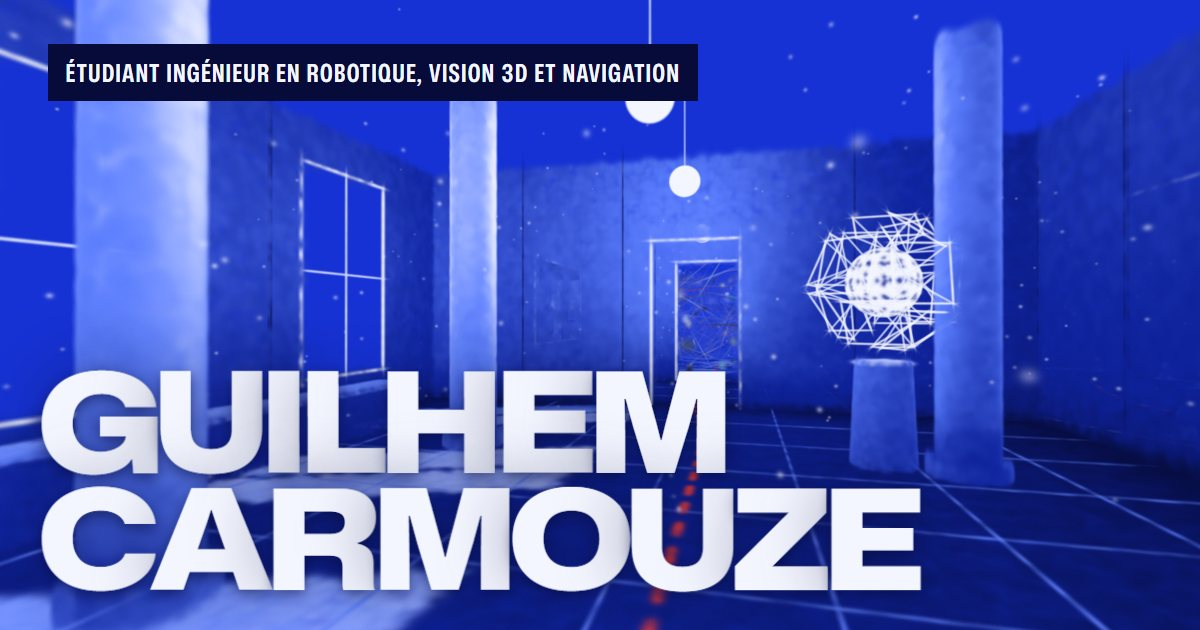
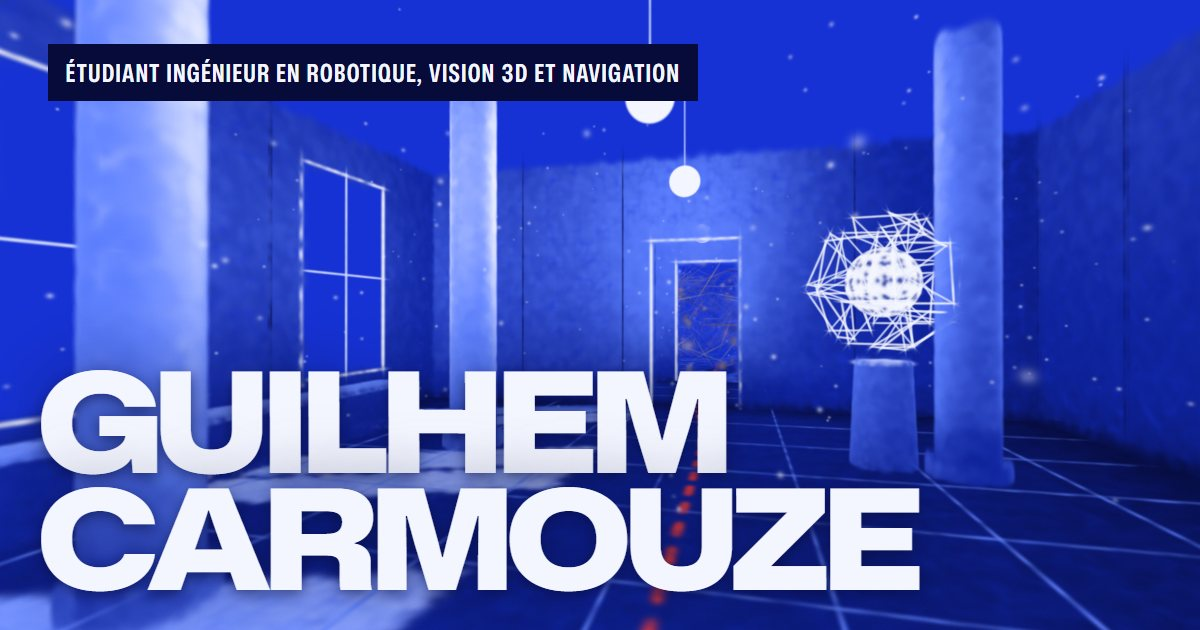
Document the performance work and the invitation to scroll; regenerate the poster and share images
DESIGN.md: a Performance section (how it is measured, the rules that came out of it,
the quality governor), 'The invitation to scroll', the AIST room as one stage, the
before/after stills at a size where they are sharp, the decisions taken after the
owner's first review, and three additions to 'Do not use'. README: the three new
tools and how to read ?perf=1.

The poster and the two share images are captured again from the built hero (without
the lights of the invitation, which are motion). The AIST copy tightens on very
short laptop windows so that it stays under the header. The world is drawn on every
refresh again: the half-rate drawing for 240 Hz screens could not be tested here.

diff --git a/src/scripts/main.ts b/src/scripts/main.ts
@@ -442,7 +442,7 @@ async function run() {
   let lastY = -1;
   let lastHere = '?';
   let rafStart = 0;
-  let lastTick = 0, lastRender = 0;
+  let lastRender = 0;
   let giantCss = '';
   const hud = $('.hud');
   // on phones the instruments sit at the bottom of the screen, where the lab enters: they step aside just before it does
@@ -451,25 +451,11 @@ async function run() {
   const measureHud = () => {
     hudAwayY = labHead.getBoundingClientRect().top + window.scrollY - window.innerHeight - 40;
   };
-  // On a 240 Hz screen the world is drawn every second refresh: 120 pictures a second look the same
-  // and the GPU does half the work. `every` is set once the refresh rate has been measured.
-  let every = 1, tickNo = 0;
-  const hz: number[] = [];
   // runs before GSAP renders its animations: the time between this and the frame callback is theirs
   gsap.ticker.add(() => { rafStart = performance.now(); }, false, true);
 
   const frame = (time: number) => {
     const now = performance.now();
-    if (hz.length < 50 && lastTick) {
-      hz.push(now - lastTick);
-      if (hz.length === 50) {
-        const med = hz.slice().sort((a, b) => a - b)[25];
-        every = med < 5.2 ? Math.max(1, Math.round(1000 / med / 110)) : 1;
-        perf.event('refresh', `${(1000 / med).toFixed(0)} Hz, world every ${every}`);
-      }
-    }
-    lastTick = now;
-    if (every > 1 && ++tickNo % every) { lenis.raf(time * 1000); return; }
     const deltaMs = lastRender ? now - lastRender : 16.7;
     lastRender = now;
 

diff --git a/src/styles/home.css b/src/styles/home.css
@@ -419,6 +419,18 @@ html.gl.intro-done .intro { opacity: 0; }
   html.gl .aist__still figcaption .gl-only { display: none; }
 }
 
+/* a very short laptop window: the copy of the AIST stage tightens so that it stays under the header */
+@media (min-width: 761px) and (max-height: 640px) {
+  html.gl .aist__copy { padding: 0.8rem 1rem 0.85rem; max-width: min(36rem, 39vw); }
+  html.gl .aist__copy > .t { font-size: clamp(1.15rem, 1.7vw, 1.5rem); max-width: none; margin-bottom: 0.5rem; }
+  html.gl .aist__copy .body { font-size: 0.85rem; line-height: 1.42; }
+  html.gl .aist__copy .body + .body { margin-top: 0.4rem; }
+  html.gl .aist__copy .beat__cta { margin-top: 0.7rem; }
+  html.gl .aist__copy .beat__cta .btn { min-height: 38px; }
+  html.gl .aist__copy .links--inline { margin-top: 0.5rem; }
+  html.gl .aist__proof { width: min(26rem, 30vw); }
+}
+
 @media (prefers-reduced-motion: reduce) {
   html:not(.gl) * { transition: none !important; animation: none !important; scroll-behavior: auto !important; }
 }

diff --git a/tools/og.py b/tools/og.py
@@ -51,13 +51,15 @@ with sync_playwright() as pw:
     for lang in wanted:
         home, name, line = LANGS[lang]
         out = MEDIA / name
-        page = b.new_context(viewport={'width': 1200, 'height': 630}, device_scale_factor=1).new_page()
-        page.goto(f'http://127.0.0.1:{PORT}{home}?nointro', wait_until='domcontentloaded')
+        # reduced motion with the 3D run opted in (?motion): no lights running on the path, no peek of the camera
+        page = b.new_context(viewport={'width': 1200, 'height': 630}, device_scale_factor=1, reduced_motion='reduce').new_page()
+        page.goto(f'http://127.0.0.1:{PORT}{home}?nointro&motion', wait_until='domcontentloaded')
         page.wait_for_function('() => window.__navrun && window.__world && window.__world.info', timeout=60000)
-        page.add_style_tag(content='.hero__side, .top, .hud, .lens, .intro { visibility: hidden !important; }')
+        page.add_style_tag(content='.hero__side, .top, .hud, .lens, .intro, .cue { visibility: hidden !important; }')
         page.evaluate(
             """(line) => {
               window.__world.pointerActive = false;
+              window.__world.setLevel(0);
               const p = document.createElement('p');
               p.className = 'read';
               p.textContent = line;

diff --git a/tools/poster.py b/tools/poster.py
@@ -36,11 +36,12 @@ with sync_playwright() as pw:
         # main * as well: the run sets visibility on the hero inline, which a hidden parent does not override
         ('poster', (1440, 900), 'main, main *, .top, .hud, .lens, .intro'),
     ):
-        page = b.new_context(viewport={'width': w, 'height': h}, device_scale_factor=1).new_page()
-        page.goto(f'http://127.0.0.1:{PORT}/?nointro', wait_until='domcontentloaded')
+        # reduced motion with the 3D run opted in (?motion): no lights running on the path, no peek of the camera
+        page = b.new_context(viewport={'width': w, 'height': h}, device_scale_factor=1, reduced_motion='reduce').new_page()
+        page.goto(f'http://127.0.0.1:{PORT}/?nointro&motion', wait_until='domcontentloaded')
         page.wait_for_function('() => window.__navrun && window.__world && window.__world.info', timeout=60000)
         page.add_style_tag(content=f'{hide} {{ visibility: hidden !important; }}')
-        page.evaluate('() => { window.__world.pointerActive = false; }')
+        page.evaluate('() => { window.__world.pointerActive = false; window.__world.setLevel(0); }')
         time.sleep(3.0)
         png = TMP / f'{name}.png'
         page.screenshot(path=str(png))

diff --git a/DESIGN.md b/DESIGN.md
@@ -11,7 +11,7 @@ real 3D Gaussians is trained in front of the visitor (noise condenses into rooms
 scroll bar becomes the trajectory: an A* path planned on an occupancy grid sliced from those
 same Gaussians carries a robot's-eye camera from room to room, one project per room.
 The world is printed as a blueprint (blue ground, white light, one red thread), so the only
-true-colour moment on the page is Guilhem's real 360-degree panorama.
+true-colour moment on the page is the room built from Guilhem's real 360-degree panorama.
 
 What the visitor must believe at the end: this person understands radiance fields,
 panoramic geometry and robot navigation well enough to make them move.
@@ -70,14 +70,12 @@ Width is the system: expanded and heavy for names, normal for reading, condensed
 | readout     | `0.72rem`                              | 78   | 640  | 1.2  | 0.07em   | upper, tabular |
 
 Giant figures (grafted from direction B): a measured number set in `figure`, up to
-`clamp(3.6rem, 12.5vw, 12.5rem)`, with its exact meaning beside it in small type. Under the
-unwrapped panorama of the run the number is sized from the band it sits under (16 % of its width,
-at most 18 % of the window height), so it is as large as the room allows and its meaning keeps a
-readable column. Used where a
-number carries the argument and nowhere else: four in the AIST room (14 views, 0.037 to 0.020,
--27 % before distillation, 154 frames that failed the gate), the same on the case study, one per
-side project. A "from" value is struck through in red and set at 56 %. A figure that reports a
-failure is printed in `--fil`.
+`clamp(3.6rem, 12.5vw, 12.5rem)`, with its exact meaning beside it in small type. Used where a
+number carries the argument and nowhere else: two in the AIST room of the run (14 views, -27 %
+before distillation; up to 6.2 rem there, they share a block with the still), four on the case
+study (those two, 0.037 to 0.020, and the 154 frames that failed the gate), one per side project.
+A "from" value is struck through in red and set at 56 %. A figure that reports a failure is
+printed in `--fil`.
 
 Readouts are instruments, not decoration: every number in the HUD is computed live
 (Gaussian count, residual, pose, metres travelled). No invented metrics.
@@ -91,8 +89,12 @@ Readouts are instruments, not decoration: every number in the HUD is computed li
 | `snap`     | `cubic-bezier(0.23, 1, 0.32, 1)`          | 140-220 ms | Hover, press, focus. |
 | `track`    | linear scrub + exponential damping 6 s^-1 | continuous | Everything tied to scroll: camera, unwrap, wipe. |
 
-Stagger: 18-28 ms per letter, random order (convergence is not left-to-right).
+Stagger: 14-28 ms per letter, random order (convergence is not left-to-right).
 Press scale 0.97. Nothing bounces. Under reduced motion nothing above runs.
+
+Only `transform` and `opacity` are animated on type. No `filter: blur()` on letters, no animated
+`font-stretch`, no `will-change` left on an element at rest: each of the three cost frames (see
+Performance).
 
 ## Page grammar: continuous world
 
@@ -110,6 +112,9 @@ Press scale 0.97. Nothing bounces. Under reduced motion nothing above runs.
   Headlines sit directly on the world with a soft `--deep` ground (text-shadow, no offset look);
   where the world behind is busy (the cone track) the whole beat takes a plate.
 - Each project room carries a solid "Read the case study" button as soon as that page exists.
+- Every project room has the same weight: about 400 to 450 vh of scroll, a title beat on the way in and
+  one stage of content. The detail lives on the case-study page. The AIST room follows that rule too:
+  three sentences, two figures, a small before/after still, the repositories, the button.
 - The run ends in two flow sections over the rising plan view: the lab cards, then the project
   index ("the run, without the run"), which the hero's skip link and the header's Work link reach.
 - The minimap is the navigation. Waypoints are real buttons.
@@ -133,8 +138,10 @@ Static documents: no WebGL, no animation library, about 2 KB of script.
 - The one light moment: the **window word** (`360°`), display-xl letters cut out of the real
   repaired panorama, which pans once every 90 s (it wraps, it is equirectangular). Blocks arrive
   once with `converge` when they enter the viewport. Nothing else moves.
-- Before/after: one frame, a draggable divider with a red handle, a range input for the
-  keyboard, and a button that swaps the stills for the real video in the same frame.
+- Before/after: one frame, a draggable divider with a red handle and a range input for the
+  keyboard. The two stills are 1024 px wide, so the frame is never laid out wider than 768 px
+  (512 px in the run): at that size they are sharp. There is no video player on the site for the
+  panorama; the comparison video is one text link to the repository, among the links of the case study.
 - Lab: one section per project: darkroom with its hero clip, then name, what it is, repository,
   and one result as a giant figure, what the clip shows, where it comes from, stack.
 - Page to page: cross-document view transitions where supported. The title the visitor clicked
@@ -158,16 +165,17 @@ carries no phone number and no street address.
 1. **Convergence.** Training is the entrance animation for everything. Splats: a random
    cloud of large isotropic Gaussians moves to coarse cell centres, then densifies
    (children split off their parent cell and shrink to their final anisotropic shape).
-   Letters do the same: scattered, blurred, wide, then they land.
+   Letters do the same: scattered, enlarged, turned, transparent, then they land. The name opens
+   from condensed to wide as it arrives (a horizontal scale, not the width axis of the font).
 2. **The red thread.** The A* path is the scroll bar. It is made of splats, so walls occlude it;
    the travelled part is solid, the planned part dashed. "Fil rouge" is also the name of his
    first robot project, where the thread ends.
-3. **Unwrap and repair.** In the AIST room the perspective view opens into the full
-   equirectangular panorama (direction-space morph in GLSL), then a diffusion front wipes
-   the raw 3DGS render into the repaired one. Real video, his data. The panorama is 1024 texels
-   for 360 degrees, so from inside it is magnified several times: it is sampled with a cubic
-   B-spline and given a little grain, and on a phone the camera pulls back to 98 degrees while it
-   is on screen. Once unwrapped, the band stops where the label bar of the video starts.
+3. **Repair.** The AIST room is built from his panorama, one Gaussian per direction, and it is
+   first shown as the raw 3DGS render: wrong colours, floaters and needles. While its one stage is
+   read the needles leave and every Gaussian takes the colour of the repaired output; the small
+   still on the stage shows the same two pictures, and its divider follows the room until the
+   visitor takes it in hand. No full-screen panorama and no video: at 1024 px for 360 degrees the
+   picture cannot be magnified, so it is only ever shown small, or as Gaussians.
 4. **Lens.** The cursor carries a 150 px lens that switches the render mode locally:
    depth ramp or raw ellipsoids. Click or press L to change mode. A HUD button applies it to the whole view.
 
@@ -175,9 +183,9 @@ carries no phone number and no street address.
 
 | Section | World | Type |
 |---------|-------|------|
-| Intro (4.6 s, skippable) | Top-down noise cloud condenses into the floor plan, camera dives into the lobby. | Readout runs (iteration, residual, live Gaussian count). The header (name, Work, Lab, CV, language, GitHub) is there from the first paint, with a paper tag that says how to skip. |
-| Hero / lobby | Camera settles at robot height; 14-view rig sculpture idles; pointer parallax. | Name converges; width axis 75 -> 125; links slide in. |
-| AIST | Vestibule with a pinhole view of the raw render as a splat billboard (the source footage is never shown), then the room built from the panorama develops from duotone into true colour, artefact needles spin; iris to the real panorama; unwrap; repair wipe; re-wrap. | Title lines converge; five phases step with the scrub; three figures count nothing up, they are set. |
+| Intro (2.5 s to the hero, 3.2 s in all; never blocking) | Top-down noise cloud condenses into the floor plan, camera dives into the lobby. | Readout runs (iteration, residual, live Gaussian count). The header is there from the first paint, with a paper tag that says how to skip. A scroll, a key, a click or a touch opens the page at once, and that gesture already scrolls it; the scene finishes converging behind the hero. |
+| Hero / lobby | Camera settles at robot height; 14-view rig sculpture idles; pointer parallax. Lights run forward along the planned path; after 3.4 idle seconds the camera eases 1.7 m down the path and back, then again every few seconds. | Name converges and opens from condensed to wide; links and instruments slide in; the cue arrives within a second. All of the invitation ends at the first scroll. |
+| AIST (450 vh) | Through the vestibule (a pinhole view of the raw render hangs there as a splat billboard), the room built from the panorama develops from the blueprint print into true colour; inside, a slow look around while the needles leave and the raw colours become the repaired ones. | Title converges on the way in. Then one stage: three sentences, two figures, the before/after still whose divider follows the repair, repositories, the case-study button. On a phone the copy and the proof follow each other and the instruments step aside. |
 | SVLR | Camera turns through the south door. | One short plate. |
 | TLSe Racing | Cone chicane; sensor field-of-view fan sweeps the floor and lights the cones it selects. | One marquee tied to scroll velocity. |
 | Usine 4.0 | The camera leaves the lane on a boom and cranes to 5.3 m, looking down on the floor while it travels: ten mobile robots on one-way lanes queue, stop at docks and yield at the merge; six workstation arms swing. | Huge title scales with the crane. |
@@ -186,23 +194,50 @@ carries no phone number and no street address.
 | Index | Plan view holds. | Rows rise in. |
 | Contact | Top-down: the world becomes the map, whole path drawn. | Email at display size. |
 
+## The invitation to scroll
+
+The owner's rule: on arrival it must be obvious, without reading instructions, that scrolling moves
+forward. Four signals, all gone after the first real scroll (`html.cue-on` then `html.has-scrolled`):
+
+- **The cue.** A plate in readout type with a short piece of the red thread and a waypoint square
+  travelling down it, and the words: "Scroll to move forward", "Swipe up to move forward" on a touch
+  device (the square travels up). It sits on the floor beside the path, in the gap the first line of
+  the name leaves (from 1280 px wide); under the header on narrower desktop windows; under the name,
+  left of the map, on a phone.
+- **The button.** "Start the run", solid paper, right under the cue: it scrolls smoothly to the first
+  room for people who do not scroll. It is a shortcut, not a gate: nothing is hidden behind it.
+- **The path.** A light leaves the camera every 2.4 m and runs down the planned path towards the
+  door, its tail towards the visitor (`uInvite` in the splat shader).
+- **The peek.** After 3.4 idle seconds the camera eases 1.7 m down the path and comes back, and again
+  every few seconds. The page does not scroll; the first scroll cancels it.
+
+Arrow keys, space and page down scroll the page natively, so they advance the run. Under reduced
+motion with the 3D run opted in: the cue is shown static, no lights, no peek. On the static page
+(reduced motion, no WebGL opt-in) the cue is one static line and the button is absent.
+`tools/arrival.py` checks all of this on the built site.
+
 ## Do not use
 
 Manrope, Inter, any serif, any monospace. Peach or orange accent. Teal-black. Diorama or
-"lab bench" framing, numbered stations 01-06, "ENTER"/"RUN" buttons. Cream or off-white page.
+"lab bench" framing, numbered stations 01-06, an "ENTER" gate in front of the content (the
+"Start the run" button of the hero is a shortcut beside a page that already scrolls). Cream or off-white page.
 Italic accent word. Acid green terminal, typewriter text. Glass bento, identical rounded cards.
 Purple or any gradient wash. Pills everywhere. Count-up vanity stats, skill bars.
 Custom cursor replacing the pointer (the lens rides with it, the pointer stays). Em-dashes.
-Stock or generated imagery. Any number not in FACTS.md.
+Stock or generated imagery. Any number not in FACTS.md. A full-screen or autoplaying view of the
+panorama, or any video player for it (1024 px of picture: the owner found it ugly, and he is right).
+Two videos playing at once on the home page. Blur filters on animated type.
 
 ## Mobile plan (390 px)
 
-- Splat density 0.5 (about 155k), device pixel ratio capped at 1.25, fog pulled in, no lens.
+- Splat density 0.5 (about 155k), device pixel ratio capped at 1.25 (then the quality governor), fog pulled in, no lens.
 - Minimap shrinks to a 104 px tile; readouts reduce to metres travelled. It steps aside just before
   the lab enters the screen, and comes back for the last section.
 - Stages stack: headline on the world at top, copy on a solid `--deep` plate at the bottom.
-- The panorama unwraps to a band across the width; the giant figures sit right under its caption,
-  which keeps its first sentence only (which run the picture comes from).
+- The AIST stage is two screens on a phone: the copy on a plate at the bottom, then the proof (still and
+  two figures) at the top. The instruments step aside for both. On a short phone the copy keeps its
+  title, two sentences and the button.
+- The cue and the Start button sit under the name, left of the map.
 - In the flow sections (lab, index) the minimap steps aside and the header takes a ground.
 - Case study: the results table becomes a list of cards; wide lab clips scroll sideways in their frame.
 - No horizontal scroll: display type is sized in vw and clipped by the stage, marquee is `overflow: clip`.
@@ -212,20 +247,55 @@ Stock or generated imagery. Any number not in FACTS.md.
 Default CSS is a complete static page (works without JavaScript): blueprint ground,
 a pre-rendered poster of the lobby as hero (`tools/poster.py`: the world only, no interface and no
 text, so it serves every language), the before/after frame with its
-divider, both robot clips with controls, the lab cards, the project index, plain document flow.
+divider, the two figures, both robot clips with controls, the lab cards, the project index, plain document flow.
 Sentences that only make sense inside the 3D rooms are marked `gl-only` and stay out of it. An inline head script adds `html.gl` only
 when WebGL2 exists and reduced motion is not requested; everything animated hangs off that class.
-Reduced-motion visitors get a "Start the 3D run" button to opt in.
+Reduced-motion visitors get a "Start the 3D run" button to opt in, and a static line that says to scroll.
 
-## Performance budget
+## Performance
+
+The owner's report after the first release: "sometimes it drops". Measured, not guessed:
+`src/world/perf.ts` records every frame (interval, scroll position, time in the scroll step, the
+world, the DOM updates, the browser's own rendering, the depth sort and its hand-over, GPU time
+through `EXT_disjoint_timer_query_webgl2`), `tools/perf.py` scrolls the whole page at three speeds
+on two window sizes with a fresh page for every run and prints the long frames with their place,
+and a Chrome trace says which thread was late. `?perf=1` shows the same instruments live, with
+buttons to pin the quality level.
+
+Budget and rules that came out of it:
 
 - First paint needs CSS + one font file + about 45 KB of JS. three.js, the scene worker and
   shaders load after first paint through dynamic import.
 - Own splat rasteriser (instanced quads, EWA covariance projection in GLSL, counting sort in
-  a worker, culling behind the camera and beyond fog). Chosen over Spark: about 6 KB instead of
-  about 900 KB gzipped, and fragment-level control for the lens and convergence.
-- DPR capped at 1.5 (1.25 on phones). Canvas pauses when the tab is hidden.
-  The panorama video loads only when the AIST room is close.
+  a worker). Chosen over Spark: about 6 KB instead of about 900 KB gzipped, and fragment-level
+  control for the lens and convergence.
+- **Draw only what can be seen.** The depth sort also culls: behind the camera, beyond the fog,
+  outside the view, and by room. The building is a chain of rooms joined by doors
+  (`ROOMS`, `DOORS`, `sightFrom` in `src/world/layout.ts`): the room the camera stands in is drawn
+  whole, the next one only inside the wedge seen through its door, the one after only where both
+  wedges overlap, the rest not at all. What stands higher than the walls around it is never hidden.
+  `tools/sight.py` draws 90 frozen positions with and without this culling: no visible difference,
+  42 % fewer Gaussians (46,750 instead of 80,250 on average).
+- **The sort never stalls a frame.** One request in flight; the sorted array becomes the attribute
+  array without a copy and the previous one goes back to the worker; only the visible range is
+  uploaded; a new sort is asked for when the view moved, 20 times a second at rest.
+- **Quality governor** (`src/world/quality.ts`). The cost of a frame is fill, so the lever is the
+  render scale: seven levels from 1 to 0.44 of the device pixel ratio (capped at 1.5, 1.25 on
+  phones), then two levels that thin the Gaussians tiling surfaces. It starts from a pixel budget
+  for the kind of GPU (4.2 MP discrete, 1.7 integrated, 1.25 weak integrated, 2.4 unknown) and a
+  smaller one for the intro, which costs twice a frame of the run. It steps down when the GPU time
+  stays over 12.5 ms (or, without a timer, when 30 % of the frames are slow; a step that does not
+  help is taken back), and climbs only when there is room, the camera is moving and a wait has
+  passed that grows each time a climb did not hold. Steps are 13 %: soft Gaussians hide them.
+- **Text effects are compositor-only.** Blurring letters one by one made the browser compile a
+  shader per blur radius in the GPU process (10 to 60 ms each): every title dropped frames while
+  the page's own thread was idle. Letters now move and fade. Every title is split and its animation
+  built ahead of time, when the browser is idle.
+- **One video at a time on the home page**, the camera feed of the last room included: with two
+  videos playing Chromium runs the whole page at 37 frames a second, with three at 30.
+- Instruments (readouts, minimap) refresh 15 times a second.
+- Shader programs are compiled and the feed still uploaded during the intro, not when a room
+  comes into view. The canvas pauses when the tab is hidden.
 
 ## Decision log (build-out)
 
@@ -239,6 +309,17 @@ Reduced-motion visitors get a "Start the 3D run" button to opt in.
   context and a scroll director that should not be torn down and rebuilt by a router.
 - French is switched on by the presence of `src/data/fr.ts`, not by a flag that could drift.
 - French is written, not translated: first person, short sentences, no "vous" (interface instructions are in the infinitive), established terms left in English and glossed once. Typography is applied by one function over the finished data (`src/i18n/typography.ts`), so no sentence depends on someone typing a no-break space. Punctuation that belongs to a label (`Dépôt :`, `Vue :`) lives in the data, not in the templates. The share image exists once per language, captured from that language's home page.
+
+## Decision log (after the owner's first review)
+
+- The panorama video and the unwrap/repair pass are gone from the home page. A 1024 px panorama
+  blown up to the window was the weakest picture of the site, and its shader and its video were
+  also the largest single hitch of the run (175 ms when they first appeared).
+- The AIST room went from 1050 vh to 450 vh and from eight beats to two. Its two figures are the
+  rig (14 views: what was built) and -27 % (what was measured, with its limit in the same sentence);
+  the run that failed is one of the three sentences. The other figures stay on the case study.
+- The AIST room is built from the two stills of the before/after frame instead of a frame of the video.
+- The intro opens the page after 2.5 s and never locks it.
 
 ## Decision log
 

diff --git a/README.md b/README.md
@@ -47,7 +47,7 @@ no `base` path. CI does not run Python: the CV PDFs and the share image are comm
 | `src/components/Seo.astro` | Title, description, canonical, hreflang, Open Graph, Twitter, icons, JSON-LD |
 | `src/views/` | `HomeView` (the run), `CaseStudyView`, `LabView`, `CvView` |
 | `src/pages/` | Thin route files (English at the root, other languages under `[lang]/`), `404.astro`, `robots.txt.ts` |
-| `src/world/`, `src/scripts/main.ts` | The world: scene generator, planner, splat shaders, traffic; the scroll director |
+| `src/world/`, `src/scripts/main.ts` | The world: scene generator, planner, splat shaders, traffic, room culling (`layout.ts`), quality governor (`quality.ts`), frame recorder (`perf.ts`); the scroll director |
 | `src/styles/` | `global.css` (tokens, type), `home.css`, `page.css`, `cv.css`, `notfound.css` |
 | `public/media/` | Web-sized real media, every file listed in `src/data/site.ts` |
 | `public/cv/` | The CV as PDF, one per language |
@@ -106,7 +106,25 @@ PDF holds real TrueType fonts, which keeps its text extractable for applicant-tr
 | `tools/pinhole.py` | `public/media/aist-pinhole.jpg`, the pinhole view on the vestibule wall, cut out of the raw 3DGRUT panorama |
 | `tools/check_links.mjs` | Internal links of `dist/`, and whether every linked GitHub repository is public (Node, no dependency; run by the deploy workflow) |
 | `tools/shots.py` | Art-director loop: scroll depths of the run, static pages, intro frames |
+| `tools/perf.py` | Frame pacing of the run: scrolls the whole page at three speeds on two window sizes, a fresh page per run, medians of three; prints every long frame with its place in the run and where the time went (`--gpu low` asks for the integrated GPU) |
+| `tools/arrival.py` | The first seconds: intro length, the scroll cue, the lights on the path, the peek, keys, wheel and click during the intro, the Start button, touch wording, reduced motion |
+| `tools/sight.py` | Draws frozen positions of the run with and without the room culling and compares the pictures |
 | `tools/pageshot.py` | Full-page captures of static pages (CV, 404, lab) at 1440 and 390 px |
+
+## Performance
+
+Add `?perf=1` to the address of the home page to see what the run costs on your machine: frame
+time, GPU time, render scale and quality level, Gaussians drawn, sort time, and the last long
+frame with the place where it happened. The buttons pin a quality level; "Auto" hands it back to
+the governor. The method and the rules are in [DESIGN.md](DESIGN.md#performance).
+
+```bash
+npm run build
+python tools/perf.py _work/perf/now.json                  # the fast GPU
+python tools/perf.py _work/perf/low.json --gpu low        # the integrated GPU of a dual-GPU laptop
+python tools/arrival.py                                   # the first seconds of the run
+python tools/sight.py                                     # the room culling changes nothing on screen
+```
 
 ## Search and sharing
 
